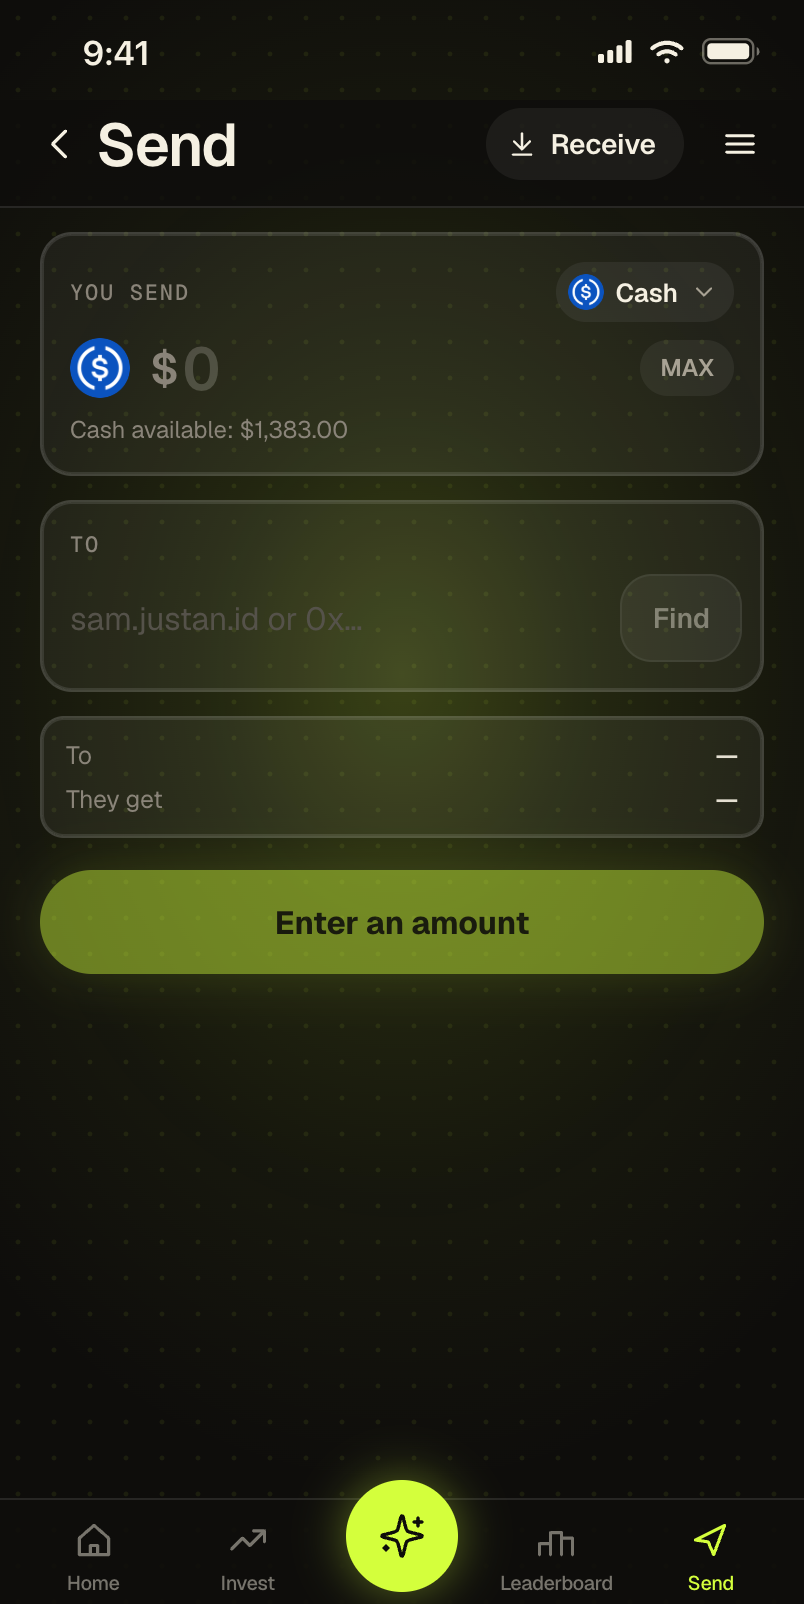
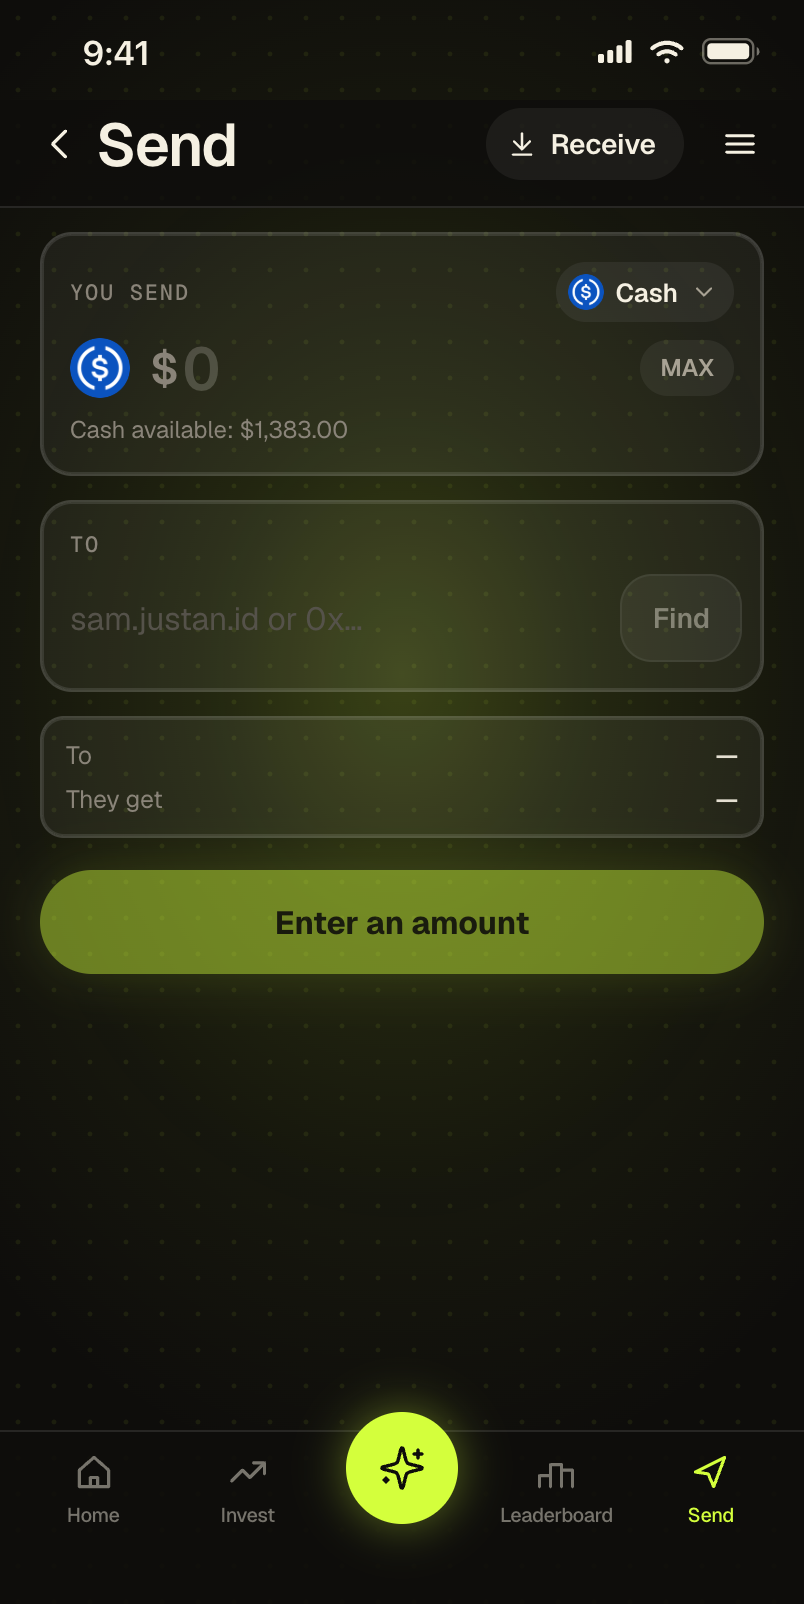
Demo dark tab bar clears the screen's edge; phone feature cards load ahead
Dark: the tab bar pads itself by the iPhone's bottom inset, which the first
captures didn't have, so its labels sat on the screen's rounded edge. All 12
shots retaken in both themes at the same moment, dark with a 34px bottom
inset; dark's tab-bar tap zones moved up to match.

Phone carousel ("Cash, stocks and credit in one account"): its 11 card
screens were lazy inside a sideways scroller, so each loaded only when swiped
in and showed blank meanwhile. They now all load once the carousel comes
near; desktop hides the carousel, so nothing extra loads there.

diff --git a/index.html b/index.html
@@ -636,6 +636,9 @@
   .tz-agents{left:42%;width:16%;top:90.6%;height:8.9%}
   .tz-board{left:59%;width:19.8%;top:92.3%;height:7.2%}
   .tz-send{left:78.8%;width:19%;top:92.3%;height:7.2%}
+  /* dark's tab bar sits higher: it keeps the iPhone's bottom inset under its labels */
+  .screen.is-dark .tz-invest,.screen.is-dark .tz-board,.screen.is-dark .tz-send{top:88.8%;height:7.5%}
+  .screen.is-dark .tz-agents{top:87.4%;height:8.2%}
   .tapzone{border-radius:14px;transition:background .2s ease}
   @media (hover:hover){.tapzone:hover{background:rgba(212,255,60,.16)}}
   .tapzone:focus-visible{outline:2px solid #9db32b;outline-offset:2px}
@@ -1420,6 +1423,18 @@
       const max = track.scrollWidth - track.clientWidth;
       track.scrollTo({ left: (max * i) / (n - 1), behavior: "smooth" });
     }));
+    // Every card's screen loads once the carousel comes near, not as each card is swiped in (iPhone Safari showed
+    // them blank). The carousel is display:none on desktop, so it never comes near there and nothing extra loads.
+    const shots = [...track.querySelectorAll("img")];
+    const near = new IntersectionObserver((es) => {
+      if (!es.some((e) => e.isIntersecting)) return;
+      near.disconnect();
+      shots.forEach((i) => {
+        i.loading = "eager";
+        new Image().src = i.src;
+      });
+    }, { rootMargin: "1200px 0px" });
+    near.observe(track);
   }
 
   // Mobile: sticky CTA bar appears after the hero, hides near the footer CTA
